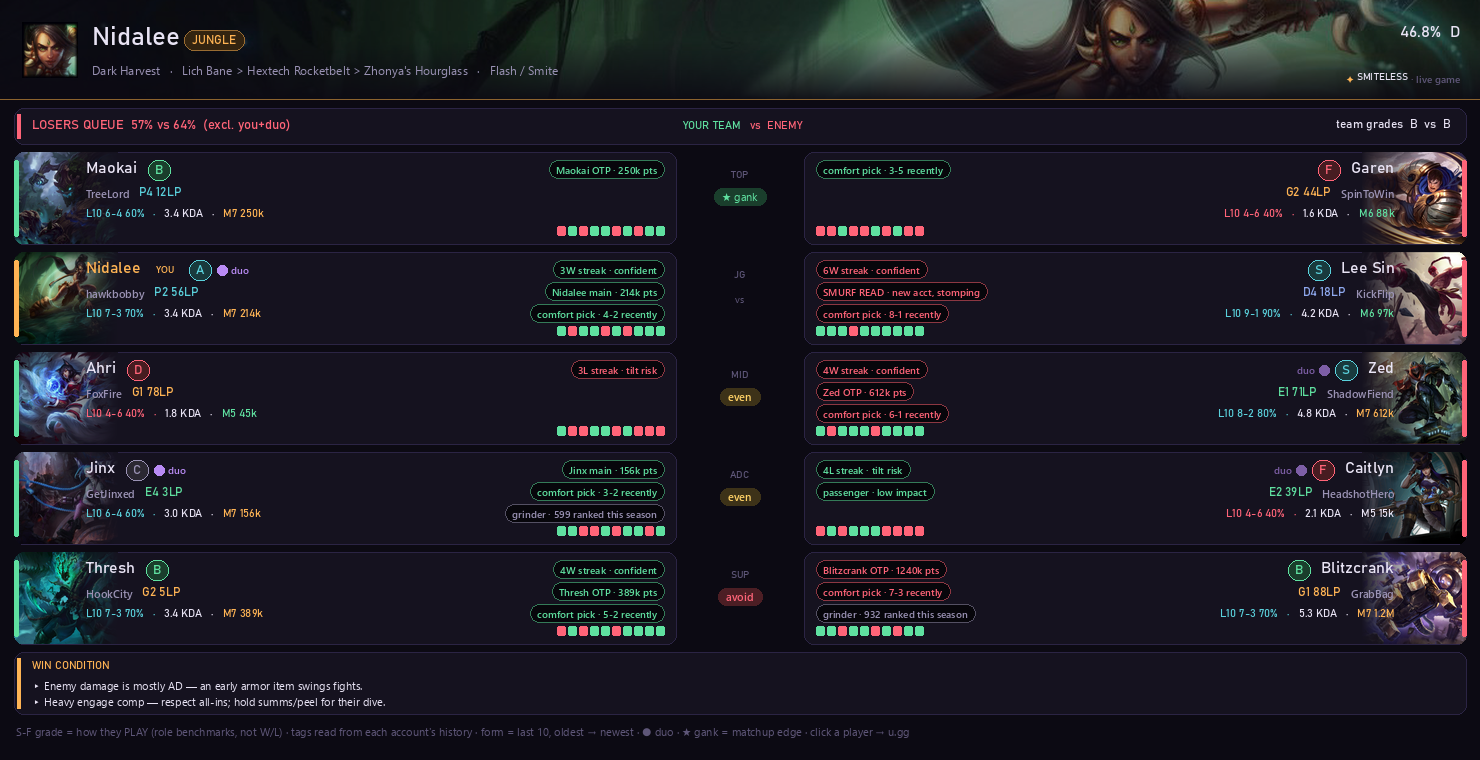
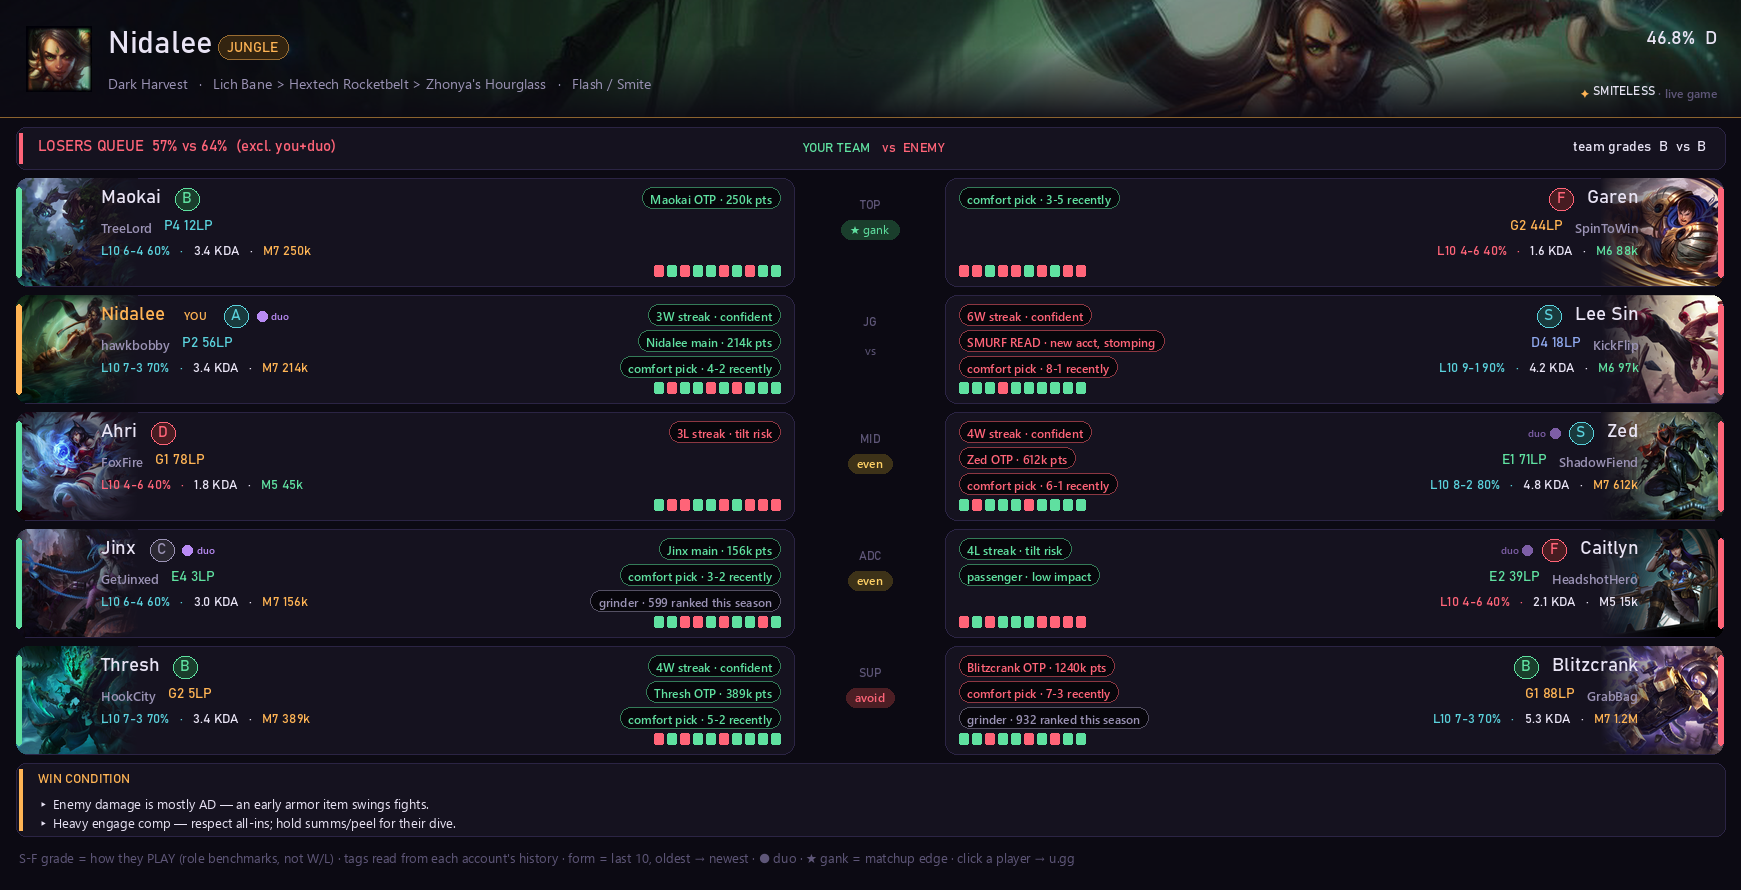
Live board scales to its monitor (crisp redraw, not raster stretch)
BOARD_TARGET (set by smiteoverlay from the target monitor) drives a
_board_scale factor through render_live_board; grade chips and gank
badges take an optional k so they grow in step. Legacy paths unchanged.

diff --git a/core/smitecard.py b/core/smitecard.py
@@ -1466,12 +1466,13 @@ def team_avg_grades(scout_map):
     return avg(True), avg(False)
 
 
-def _grade_chip(d, cx, cy, grade, col):
-    """A bold grade letter in a filled pill (UIDESIGN §5.1), centered on (cx, cy)."""
-    w, h = 22, 20
+def _grade_chip(d, cx, cy, grade, col, k=1.0):
+    """A bold grade letter in a filled pill (UIDESIGN §5.1), centered on (cx, cy).
+    k scales it in step with a scaled board (the live board renders monitor-sized)."""
+    w, h = int(22 * k), int(20 * k)
     fill = tuple(int(c * 0.28) for c in col)
     _rrect(d, (cx - w // 2, cy - h // 2, cx + w // 2, cy + h // 2), h // 2, fill=fill, outline=col, width=1)
-    d.text((cx, cy), grade, font=display_font(13, True), fill=col, anchor="mm")
+    d.text((cx, cy), grade, font=display_font(int(13 * k), True), fill=col, anchor="mm")
 
 
 def draw_player(d, img, dd, x, y, cid, sc, is_me, side, accent, accent_bg, live=True):
@@ -1576,14 +1577,14 @@ def _wr_line(d, x, y, sc, anchor, live=True):
         d.text((x2 + d.textlength(t, font=ff) + 8, y), t2, font=ff, fill=col2, anchor="la")
 
 
-def draw_badge(d, cx, y, rating):
+def draw_badge(d, cx, y, rating, k=1.0):
     bg, fg = GANK[rating]
     label = {"BEST": "★ gank", "GANK": "gank", "EVEN": "even",
              "TOUGH": "tough", "AVOID": "avoid"}[rating]
-    f = font(11, 1, label)
-    half = d.textlength(label, font=f) / 2 + 8
-    d.rounded_rectangle([cx - half, y, cx + half, y + 17], radius=8, fill=bg)
-    d.text((cx, y + 8), label, font=f, fill=fg, anchor="mm")
+    f = font(int(11 * k), 1, label)
+    half = d.textlength(label, font=f) / 2 + 8 * k
+    d.rounded_rectangle([cx - half, y, cx + half, y + int(17 * k)], radius=int(8 * k), fill=bg)
+    d.text((cx, y + int(8.5 * k)), label, font=f, fill=fg, anchor="mm")
 
 
 def _wrap(text, fnt, max_w):
@@ -2424,8 +2425,22 @@ def render_cs_vertical(dd, my_cid, my_role, allies, build, suggestions=None, ban
     return out
 
 
-LW = 1480                 # the LIVE board renders wide — it owns a whole second monitor
+LW = 1480                 # the LIVE board's DESIGN width; it renders scaled to its monitor
+BOARD_TARGET = (1920, 1080)   # (w, h) of the monitor the board will live on — the overlay
+                              # sets this at launch; the renderer sizes itself to fill it
 _TAG_TONE = {"good": GREEN, "bad": RED, "neutral": MUTED, "info": INFO}
+
+
+def _board_scale():
+    """How much to grow the live board beyond its 1480px design width so it FILLS the
+    monitor it's headed to (crisp redraw at scale, never a blurry raster upscale). Height
+    is budgeted against the tallest variant (laner panel + tips); smiteoverlay's ui_scale
+    still shrink-fits anything that would overflow a small window. Never below 1.0."""
+    try:
+        mw, mh = BOARD_TARGET
+    except Exception:
+        mw, mh = 1920, 1080
+    return max(1.0, min((mw - 60) / 1480.0, (mh - 45) / 880.0, 1.8))
 
 
 def _live_tags(dd, cid, sc, ally):
@@ -2455,68 +2470,72 @@ def render_live_board(dd, my_cid, my_role, ally_role, enemy_role, build, lanes, 
     rank + LP, last-10 form, KDA, mastery, S–F grade pill, and the same profile-read tags
     as the loading screen), with the gank verdict between them. Same inputs and hitmap
     contract as render_image's live path."""
-    HERO = 100
+    k = _board_scale()
+    def S(v): return int(round(v * k))
+    BW = S(1480)
+    HERO = S(100)
     panel = bool(my_role and my_role != "jungle" and my_role in dict(ROLES))
-    tip_lines = _wrap(lane_tip, font(12), LW - 60) if (panel and lane_tip) else []
+    tip_lines = _wrap(lane_tip, font(12), BW - 60) if (panel and lane_tip) else []
     panel_h = (77 + len(tip_lines) * 18) if tip_lines else (108 if panel else 0)
     plan = game_plan(dd, list(ally_role.values()), list(enemy_role.values()))
-    plan_h = (26 + len(plan) * 16 + 8) if plan else 0
-    ROW, GAP = 92, 8
-    rows_y = HERO + 8 + 36 + 8
-    H = rows_y + 5 * (ROW + GAP) + (panel_h + 10 if panel_h else 0) + plan_h + 42
-    img = Image.new("RGB", (LW, H), BG)
+    plan_h = (S(26) + len(plan) * S(16) + S(8)) if plan else 0
+    ROW, GAP = S(92), S(8)
+    rows_y = HERO + S(8) + S(36) + S(8)
+    H = rows_y + 5 * (ROW + GAP) + (panel_h + S(10) if panel_h else 0) + plan_h + S(42)
+    img = Image.new("RGB", (BW, H), BG)
     d = ImageDraw.Draw(img)
     hits = []
 
     # ============================ HERO ============================
     if my_cid:
-        splash = get_splash(dd, my_cid, (LW, HERO))
+        splash = get_splash(dd, my_cid, (BW, HERO))
         if splash:
             img.paste(splash, (0, 0))
-            img.paste(BG, (0, 0, LW, HERO), Image.new("L", (LW, HERO), 96))
-            _vshade(img, (0, HERO - 60, LW, HERO), BG, 0, 235)
-            _hshade(img, (0, 0, 520, HERO), BG, 170, 0)
-        ic = get_icon(dd, my_cid, 56)
+            img.paste(BG, (0, 0, BW, HERO), Image.new("L", (BW, HERO), 96))
+            _vshade(img, (0, HERO - S(60), BW, HERO), BG, 0, 235)
+            _hshade(img, (0, 0, S(520), HERO), BG, 170, 0)
+        ic = get_icon(dd, my_cid, S(56))
         if ic:
-            img.paste(ic, (22, 22), ic)
+            img.paste(ic, (S(22), S(22)), ic)
             msc = scout_map.get((my_cid, True))
             murl = _profile_url(msc.get("riot_id")) if msc else None
             if murl:
-                hits.append((22, 22, 78, 78, murl))
+                hits.append((S(22), S(22), S(78), S(78), murl))
         nm = dd["id2name"].get(my_cid, "?")
-        d.text((92, 24), nm, font=display_font(26, True), fill=TEXT)
-        rf = display_font(12, True)
-        rx = 96 + d.textlength(nm, font=display_font(26, True))
-        _rrect(d, (rx, 30, rx + d.textlength((my_role or "?").upper(), font=rf) + 16, 50), 10,
-               fill=_dim(GOLD, 0.20), outline=_dim(GOLD, 0.6), width=1)
-        d.text((rx + 8, 34), (my_role or "?").upper(), font=rf, fill=GOLD)
+        d.text((S(92), S(24)), nm, font=display_font(S(26), True), fill=TEXT)
+        rf = display_font(S(12), True)
+        rx = S(96) + d.textlength(nm, font=display_font(S(26), True))
+        _rrect(d, (rx, S(30), rx + d.textlength((my_role or "?").upper(), font=rf) + S(16), S(50)),
+               S(10), fill=_dim(GOLD, 0.20), outline=_dim(GOLD, 0.6), width=1)
+        d.text((rx + S(8), S(34)), (my_role or "?").upper(), font=rf, fill=GOLD)
         if build:
             bl = f"{build['keystone']}   ·   " + " > ".join(x for x in build['core'] if x) \
                  + "   ·   " + " / ".join(build['summs'])
-            d.text((92, 62), bl[:120], font=font(12), fill=MUTED)
-            d.text((LW - 20, 24), f"{build['wr']:.1f}%  {build['tier']}",
-                   font=display_font(16, True), fill=TEXT, anchor="ra")
+            d.text((S(92), S(62)), bl[:120], font=font(S(12)), fill=MUTED)
+            d.text((BW - S(20), S(24)), f"{build['wr']:.1f}%  {build['tier']}",
+                   font=display_font(S(16), True), fill=TEXT, anchor="ra")
     else:
-        d.text((22, 24), "SPECTATING", font=display_font(26, True), fill=GOLD)
-        d.text((22, 62), "both teams scouted — no personal build (replay/spectator mode)",
-               font=font(12), fill=MUTED)
-    _brand_row(d, LW - 20, HERO - 28, size=10, anchor="ra", suffix="· " + source, suffix_col=FAINT)
-    d.line([(0, HERO - 1), (LW, HERO - 1)], fill=_dim(GOLD, 0.55), width=1)
+        d.text((S(22), S(24)), "SPECTATING", font=display_font(S(26), True), fill=GOLD)
+        d.text((S(22), S(62)), "both teams scouted — no personal build (replay/spectator mode)",
+               font=font(S(12)), fill=MUTED)
+    _brand_row(d, BW - S(20), HERO - S(28), size=S(10), anchor="ra", suffix="· " + source,
+               suffix_col=FAINT)
+    d.line([(0, HERO - 1), (BW, HERO - 1)], fill=_dim(GOLD, 0.55), width=1)
 
     # ============================ VERDICT STRIP ============================
     duo_all = detect_duos(scout_map)
     duo_of = duo_all if DUO_ON else {}
     qr = queue_prediction(my_cid, scout_map, duo_all)
     ga, ge = team_avg_grades(scout_map)
-    sy = HERO + 8
-    _railed_card(d, (14, sy, LW - 14, sy + 36), qr.get("fill") or ARC, fill=SURFACE,
+    sy = HERO + S(8)
+    _railed_card(d, (S(14), sy, BW - S(14), sy + S(36)), qr.get("fill") or ARC, fill=SURFACE,
                  outline=PEDGE, width=1)
-    d.text((32, sy + 10), qr["text"], font=display_font(13, True), fill=qr["fill"])
-    d.text((LW / 2, sy + 18), "YOUR TEAM", font=display_font(11, True), fill=GREEN, anchor="rm")
-    d.text((LW / 2 + 4, sy + 18), "  vs  ENEMY", font=display_font(11, True), fill=RED, anchor="lm")
+    d.text((S(32), sy + S(10)), qr["text"], font=display_font(S(13), True), fill=qr["fill"])
+    d.text((BW / 2, sy + S(18)), "YOUR TEAM", font=display_font(S(11), True), fill=GREEN, anchor="rm")
+    d.text((BW / 2 + S(4), sy + S(18)), "  vs  ENEMY", font=display_font(S(11), True), fill=RED, anchor="lm")
     if ga and ge:
-        d.text((LW - 30, sy + 10), f"team grades  {ga}  vs  {ge}",
-               font=display_font(12, True), fill=TEXT, anchor="ra")
+        d.text((BW - S(30), sy + S(10)), f"team grades  {ga}  vs  {ge}",
+               font=display_font(S(12), True), fill=TEXT, anchor="ra")
 
     # gank scores first, so labels are RELATIVE (see rank_gank_labels)
     my_kit = gank_kit(dd, my_cid) if GANK_KIT_ON else 0.0
@@ -2534,14 +2553,14 @@ def render_live_board(dd, my_cid, my_role, ally_role, enemy_role, build, lanes, 
     glabels = rank_gank_labels(gscores)
 
     # ============================ LANE ROWS ============================
-    cxc = LW // 2
-    CTR = 128                                     # center matchup column width
-    half = (LW - 28 - CTR) // 2                   # each team's half-row width
-    AW = 104                                      # art slab width
+    cxc = BW // 2
+    CTR = S(128)                                  # center matchup column width
+    half = (BW - S(28) - CTR) // 2                # each team's half-row width
+    AW = S(104)                                   # art slab width
 
     def _pill(x, y, txt, col, maxx, anchor="la"):
-        f = font(10, 1)
-        w = d.textlength(txt, font=f) + 14
+        f = font(S(10), 1)
+        w = d.textlength(txt, font=f) + S(14)
         if anchor == "ra":
             x0 = x - w
             if x0 < maxx:
@@ -2550,9 +2569,9 @@ def render_live_board(dd, my_cid, my_role, ally_role, enemy_role, build, lanes, 
             x0 = x
             if x0 + w > maxx:
                 return None
-        _rrect(d, (x0, y, x0 + w, y + 18), 9, fill=SUNKEN, outline=_dim(col, 0.55), width=1)
-        d.text((x0 + 7, y + 3), txt, font=f, fill=col)
-        return (x0 - 6) if anchor == "ra" else (x0 + w + 6)
+        _rrect(d, (x0, y, x0 + w, y + S(18)), S(9), fill=SUNKEN, outline=_dim(col, 0.55), width=1)
+        d.text((x0 + S(7), y + S(3)), txt, font=f, fill=col)
+        return (x0 - S(6)) if anchor == "ra" else (x0 + w + S(6))
 
     def _half(x0, y, cid, sc, ally, is_me, mirror):
         """One player as a mini profile card half. mirror=True -> enemy side (art far right,
@@ -2561,13 +2580,13 @@ def render_live_board(dd, my_cid, my_role, ally_role, enemy_role, build, lanes, 
             return
         grade, gcol = player_rating(sc)
         rail = GOLD if is_me else (GREEN if ally else RED)
-        _rrect(d, (x0, y, x0 + half, y + ROW), 10, fill=SURFACE, outline=PEDGE, width=1)
+        _rrect(d, (x0, y, x0 + half, y + ROW), S(10), fill=SURFACE, outline=PEDGE, width=1)
         ax = x0 + half - AW if mirror else x0
         art = get_splash(dd, cid, (AW, ROW))
         if art:
             mask = Image.new("L", (AW, ROW), 0)
             mm = ImageDraw.Draw(mask)
-            mm.rounded_rectangle((0, 0, AW, ROW), radius=10, fill=255)
+            mm.rounded_rectangle((0, 0, AW, ROW), radius=S(10), fill=255)
             mm.rectangle((0, 0, AW // 2, ROW) if mirror else (AW // 2, 0, AW, ROW), fill=255)
             img.paste(art, (ax, y), mask)
             grad = Image.new("L", (AW, 1))
@@ -2575,37 +2594,38 @@ def render_live_board(dd, my_cid, my_role, ally_role, enemy_role, build, lanes, 
             grad.putdata(ramp[::-1] if mirror else ramp)
             img.paste(Image.new("RGB", (AW, ROW), SURFACE), (ax, y), grad.resize((AW, ROW)))
         else:
-            ic = get_icon(dd, cid, 44)
+            ic = get_icon(dd, cid, S(44))
             if ic:
-                img.paste(ic, (ax + (AW - 44) // 2, y + (ROW - 44) // 2), ic)
-        rx = (x0 + half - 4, y + 8, x0 + half, y + ROW - 8) if mirror else (x0, y + 8, x0 + 4, y + ROW - 8)
+                img.paste(ic, (ax + (AW - S(44)) // 2, y + (ROW - S(44)) // 2), ic)
+        rx = (x0 + half - S(4), y + S(8), x0 + half, y + ROW - S(8)) if mirror \
+            else (x0, y + S(8), x0 + S(4), y + ROW - S(8))
         d.rounded_rectangle(rx, 2, fill=rail)
 
         tx = x0 + half - int(AW * 0.70) if mirror else x0 + int(AW * 0.70)
         anc = "ra" if mirror else "la"
         sgn = -1 if mirror else 1
         name = dd["id2name"].get(cid, "?")
-        nf = display_font(16, True)
-        d.text((tx, y + 8), name, font=nf, fill=(GOLD if is_me else TEXT), anchor=anc)
-        gx = tx + sgn * (d.textlength(name, font=nf) + 22)
+        nf = display_font(S(16), True)
+        d.text((tx, y + S(8)), name, font=nf, fill=(GOLD if is_me else TEXT), anchor=anc)
+        gx = tx + sgn * (d.textlength(name, font=nf) + S(22))
         if is_me:
-            d.text((gx - sgn * 6, y + 11), "YOU", font=font(9, 1), fill=GOLD, anchor=anc)
-            gx += sgn * 38
+            d.text((gx - sgn * S(6), y + S(11)), "YOU", font=font(S(9), 1), fill=GOLD, anchor=anc)
+            gx += sgn * S(38)
         if grade:
-            _grade_chip(d, gx, y + 18, grade, gcol)
+            _grade_chip(d, gx, y + S(18), grade, gcol, k=k)
         if (cid, ally) in duo_of:
-            _duo_marker(d, gx + sgn * 22, y + 18, duo_of[(cid, ally)], "R" if mirror else "L")
+            _duo_marker(d, gx + sgn * S(22), y + S(18), duo_of[(cid, ally)], "R" if mirror else "L")
         # line 2: riot id + rank
         who = ((sc or {}).get("riot_id") or "").split("#")[0]
         rtext, rcol = rank_str((sc or {}).get("rank"))
-        pf = font(11, 1)
+        pf = font(S(11), 1)
         if who:
-            d.text((tx, y + 34), who[:18], font=pf, fill=MUTED, anchor=anc)
-            rx2 = tx + sgn * (d.textlength(who[:18], font=pf) + 10)
+            d.text((tx, y + S(34)), who[:18], font=pf, fill=MUTED, anchor=anc)
+            rx2 = tx + sgn * (d.textlength(who[:18], font=pf) + S(10))
         else:
             rx2 = tx
         if rtext:
-            d.text((rx2, y + 34), rtext, font=display_font(12, True), fill=rcol, anchor=anc)
+            d.text((rx2, y + S(34)), rtext, font=display_font(S(12), True), fill=rcol, anchor=anc)
         # line 3: L10 record · KDA · mastery
         if sc:
             n, w = int(sc.get("n") or 0), int(sc.get("w") or 0)
@@ -2625,76 +2645,78 @@ def render_live_board(dd, my_cid, my_role, ally_role, enemy_role, build, lanes, 
             if mirror:
                 bits.reverse()                    # right-anchored chain draws right-to-left
             bx = tx
-            bf = display_font(11, True)
+            bf = display_font(S(11), True)
             for i, (t, col) in enumerate(bits):
                 # separator goes BETWEEN items: trailing for a left-to-right chain, and
                 # trailing too for the right-to-left chain (it lands against the previous
                 # item's left edge because the string is right-aligned)
                 sep = (i < len(bits) - 1) if not mirror else (i > 0)
                 t2 = t + ("   ·   " if sep else "")
-                d.text((bx, y + 56), t2, font=bf, fill=col, anchor=anc)
+                d.text((bx, y + S(56)), t2, font=bf, fill=col, anchor=anc)
                 bx += sgn * d.textlength(t2, font=bf)
             # tags: the sharpest profile reads that fit between the stats and the center
             tags = _live_tags(dd, cid, sc, ally)
-            inner = x0 + half - 12 if not mirror else x0 + 12
-            ty = y + 8
+            inner = x0 + half - S(12) if not mirror else x0 + S(12)
+            ty = y + S(8)
             shown = 0
             for txt_, tone in tags:
-                if shown >= 3 or ty > y + ROW - 24:
+                if shown >= 3 or ty > y + ROW - S(24):
                     break
                 res = _pill(inner, ty, txt_, _TAG_TONE.get(tone, MUTED),
-                            (bx + 16) if not mirror else (bx - 16),
+                            (bx + S(16)) if not mirror else (bx - S(16)),
                             anchor=("ra" if not mirror else "la"))
                 if res is not None:
                     shown += 1
-                ty += 22
+                ty += S(22)
             # last-10 form bars under the tags column
             form = sc.get("form") or []
             if form:
-                fw = 10 * 11 - 3
-                fx = (x0 + half - 12 - fw) if not mirror else (x0 + 12)
-                fy = y + ROW - 18
+                fw = 10 * S(11) - S(3)
+                fx = (x0 + half - S(12) - fw) if not mirror else (x0 + S(12))
+                fy = y + ROW - S(18)
                 for i, win in enumerate(form[:10][::-1]):
-                    d.rounded_rectangle([fx + i * 11, fy, fx + i * 11 + 8, fy + 9], 2,
+                    d.rounded_rectangle([fx + i * S(11), fy, fx + i * S(11) + S(8), fy + S(9)], 2,
                                         fill=WSQ if win else LSQ)
         elif live:
-            d.text((tx, y + 56), "scouting…", font=font(11), fill=FAINT, anchor=anc)
+            d.text((tx, y + S(56)), "scouting…", font=font(S(11)), fill=FAINT, anchor=anc)
         # click zone: art + name block -> their profile
         url = _profile_url((sc or {}).get("riot_id")) if sc else None
         if url:
-            zone = (x0 + half - AW - 240, y, x0 + half, y + ROW) if mirror else (x0, y, x0 + AW + 240, y + ROW)
+            zone = (x0 + half - AW - S(240), y, x0 + half, y + ROW) if mirror \
+                else (x0, y, x0 + AW + S(240), y + ROW)
             hits.append((zone[0], zone[1], zone[2], zone[3], url))
 
     y = rows_y
     for role, lbl in ROLES:
         a_cid, e_cid = ally_role.get(role), enemy_role.get(role)
-        _half(14, y, a_cid, scout_map.get((a_cid, True)), True, a_cid == my_cid, False)
-        _half(14 + half + CTR, y, e_cid, scout_map.get((e_cid, False)), False, False, True)
-        d.text((cxc, y + 18), lbl.upper(), font=display_font(10, True), fill=FAINT, anchor="ma")
+        _half(S(14), y, a_cid, scout_map.get((a_cid, True)), True, a_cid == my_cid, False)
+        _half(S(14) + half + CTR, y, e_cid, scout_map.get((e_cid, False)), False, False, True)
+        d.text((cxc, y + S(18)), lbl.upper(), font=display_font(S(10), True), fill=FAINT, anchor="ma")
         if role in glabels:
-            draw_badge(d, cxc, y + 36, glabels[role])
+            draw_badge(d, cxc, y + S(36), glabels[role], k=k)
         else:
-            d.text((cxc, y + 40), "vs", font=font(10), fill=FAINT, anchor="ma")
+            d.text((cxc, y + S(40)), "vs", font=font(S(10)), fill=FAINT, anchor="ma")
         y += ROW + GAP
 
     # ============================ LANE PANEL + WIN CONDITION ============================
     if panel_h:
         opp = enemy_role.get(my_role)
-        draw_lane_panel(d, img, dd, 14, y, LW - 28, my_cid, my_role, opp,
+        draw_lane_panel(d, img, dd, S(14), y, BW - S(28), my_cid, my_role, opp,
                         lanes.get(my_role), scout_map.get((opp, False)) if opp else None,
                         tip_lines, panel_h)
-        y += panel_h + 10
+        y += panel_h + S(10)
     if plan:
-        _railed_card(d, (14, y, LW - 14, y + plan_h - 4), GOLD, fill=SURFACE, outline=PEDGE, width=1)
-        d.text((32, y + 8), "WIN CONDITION", font=display_font(11, True), fill=GOLD)
+        _railed_card(d, (S(14), y, BW - S(14), y + plan_h - S(4)), GOLD, fill=SURFACE,
+                     outline=PEDGE, width=1)
+        d.text((S(32), y + S(8)), "WIN CONDITION", font=display_font(S(11), True), fill=GOLD)
         for i, b in enumerate(plan):
-            d.text((32, y + 26 + i * 16), "▸ " + b, font=font(11, text="▸"), fill=TEXT)
+            d.text((S(32), y + S(26) + i * S(16)), "▸ " + b, font=font(S(11), text="▸"), fill=TEXT)
         y += plan_h
     _legend = ("S-F grade = how they PLAY (role benchmarks, not W/L) · tags read from each account's history · "
                "form = last 10, oldest → newest · ● duo · ★ gank = matchup edge · click a player → u.gg")
-    d.text((16, y + 6), _legend, font=font(11, text=_legend), fill=FAINT)
+    d.text((S(16), y + S(6)), _legend, font=font(S(11), text=_legend), fill=FAINT)
     if note:
-        d.text((16, y + 24), note, font=font(11), fill=EMBER_DEEP)
+        d.text((S(16), y + S(24)), note, font=font(S(11)), fill=EMBER_DEEP)
     img.hitmap = hits
     return img
 

diff --git a/ui/smiteoverlay.py b/ui/smiteoverlay.py
@@ -491,6 +491,8 @@ def main():
 
     def worker():
         try:
+            l_, t_, r_, b_ = target_monitor()    # size the live board to the monitor it owns
+            sc.BOARD_TARGET = (r_ - l_, b_ - t_)
             sc.run(emit, count=count, wait=wait, stop=lambda: st["closing"], monitor=True)
             st["done"] = True                    # normal return = match over -> overlay may close
         except Exception as e:

diff --git a/CHANGELOG.md b/CHANGELOG.md
@@ -1,5 +1,8 @@
 # Smiteless — Patch Notes
 
+## v0.9.24
+- **The live board now fills its monitor.** It rendered at a fixed design size and could only ever shrink — small on the very screen it owns. It now **draws itself scaled to the monitor it opens on** (~1740px wide on 1080p, larger on 1440p+): every font, art slab, tag pill, grade chip and gank badge grows in step, crisp at any size because it re-renders instead of stretching pixels. Small windows and low resolutions still shrink-to-fit exactly as before.
+
 ## v0.9.23
 - **The second-monitor board got the profile treatment — it's the tool that's always on, so now it looks like it.** The live in-game board is a full redesign in the profile/loading-screen language: a **splash hero header** (your champ, role chip, build line, win rate), a **winners/losers-queue verdict strip** with both teams' average grades, and five **lane-matchup rows** where every player is a mini profile card — **champion art slab, Riot ID, rank + LP in tier colors, last-10 form bars, KDA, mastery**, their **S–F performance grade**, and the same **profile-read tags** as the loading screen (`duo`, `SMURF READ`, `OTP · 612k pts`, `4L streak · tilt risk`, `passenger · low impact`, `grinder`) — with the ★ gank verdict between each pair. Wider (it owns a whole monitor), taller rows, and the win-condition card in the house style. Champ select's docked panel is unchanged; clicking a player still opens their u.gg.
 - **One-click login is fast now.** It used to take forever to notice the Riot login form was sitting there waiting — root cause found: it was crawling the Riot window's UI tree element-by-element from Python (thousands of COM calls, seconds per look), re-creating the automation object every poll, and only accepting the form when a password *flag* it often never got showed up — so most logins silently rode out a 35-second timeout before typing. Now it asks Windows UI Automation for all edit fields in **one native query (~20ms)**, polls ~3× a second with one shared object, accepts the form the moment two fields exist, and — if the client window is already open — **waits for the form instead of relaunching the client**. The fill should start within a beat of the form appearing.
